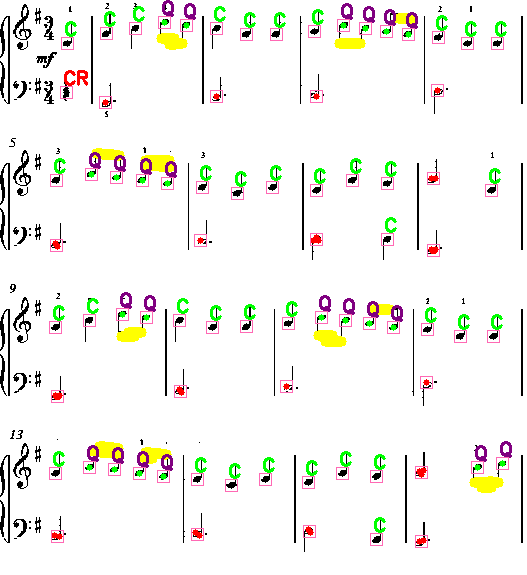
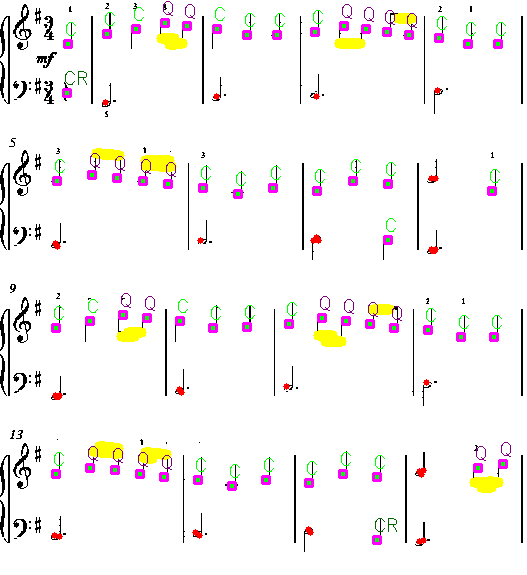
removed the 12x12 pink boxes

diff --git a/musicnote_identification.py b/musicnote_identification.py
@@ -89,50 +89,6 @@ def draw_yellow_line_on_beam(lines_image_path, notehead_image):
     # Return the modified notehead image
     return notehead_image
 
-def draw_bounding_box_on_centernoteheads(notehead_image,output_folder):
-    # Ensure the output folder exists
-    if not os.path.exists(output_folder):
-        os.makedirs(output_folder)
-
-    # Convert the image to HSV color space for better color detection
-    hsv_image = cv2.cvtColor(notehead_image, cv2.COLOR_BGR2HSV)
-
-    # Define color ranges for red and green blobs
-    lower_red = np.array([0, 120, 70])
-    upper_red = np.array([10, 255, 255])
-    lower_green = np.array([35, 50, 50])
-    upper_green = np.array([85, 255, 255])
-
-    # Create masks for red and green blobs
-    red_mask = cv2.inRange(hsv_image, lower_red, upper_red)
-    green_mask = cv2.inRange(hsv_image, lower_green, upper_green)
-
-    # Combine the masks
-    combined_mask = cv2.bitwise_or(red_mask, green_mask)
-
-    # Find contours in the combined mask
-    contours, _ = cv2.findContours(combined_mask, cv2.RETR_EXTERNAL, cv2.CHAIN_APPROX_SIMPLE)
-
-    # Draw bounding boxes around the detected blobs
-    for contour in contours:
-        # Get the bounding box of the contour
-        x, y, w, h = cv2.boundingRect(contour)
-
-        # Calculate the center of the bounding box
-        center_x = x + w // 2
-        center_y = y + h // 2
-
-        # Draw a 12x12 bounding box centered on the notehead
-        cv2.rectangle(notehead_image,
-                      (center_x - 6, center_y - 6),
-                      (center_x + 6, center_y + 6),
-                      (180, 105, 255), 1)  # Pink color box with thinner lines
-
-    # Save the result image with bounding boxes in the output folder
-    output_path = os.path.join(output_folder, 'bounding_boxes.png')
-    cv2.imwrite(output_path, notehead_image)
-    print(f"Image saved with bounding boxes to {output_path}")
-
 def identify_crochets_quavers(modified_image, output_folder):
     hsv_image = cv2.cvtColor(modified_image, cv2.COLOR_BGR2HSV)
 
@@ -151,10 +107,20 @@ def identify_crochets_quavers(modified_image, output_folder):
     yellow_contours, _ = cv2.findContours(yellow_mask, cv2.RETR_EXTERNAL, cv2.CHAIN_APPROX_SIMPLE)
 
     crochets, quavers, crotchet_rests = [], [], []
+    center_coordinates = []  # List to store center coordinates
+
+    # **Create a grayscale copy for black pixel analysis (does not modify original image)**
+    gray_image = cv2.cvtColor(modified_image, cv2.COLOR_BGR2GRAY)
 
     for contour in green_contours:
         x, y, w, h = cv2.boundingRect(contour)
         center_x, center_y = x + w // 2, y + h // 2
+
+        # **Draw bounding box**
+        cv2.rectangle(modified_image, (x, y), (x + w, y + h), (255, 0, 255), 2)  # Blue box
+
+        # Store center coordinates
+        center_coordinates.append((center_x, center_y))
 
         # Check if near yellow beam (quaver)
         is_quaver = any(
@@ -165,35 +131,32 @@ def identify_crochets_quavers(modified_image, output_folder):
         )
 
         if is_quaver:
-            cv2.putText(modified_image, "Q", (x, y - 5), cv2.FONT_HERSHEY_SIMPLEX, 0.6, (128, 0, 128), 2)
+            cv2.putText(modified_image, "Q", (x, y - 5), cv2.FONT_HERSHEY_SIMPLEX, 0.6, (128, 0, 128), 1)
         else:
-            # Convert green pixels to black in the 12x12 region
-            for i in range(y, y + 12):
-                for j in range(x, x + 12):
-                    if 0 <= i < modified_image.shape[0] and 0 <= j < modified_image.shape[1]:
-                        pixel = hsv_image[i, j]
-                        if lower_green[0] <= pixel[0] <= upper_green[0]:  # Check if pixel is green
-                            modified_image[i, j] = [0, 0, 0]  # Convert to black
-
-            # Calculate black pixels within the 12x12 region
-            roi = modified_image[y:y + 12, x:x + 12]
-            gray_roi = cv2.cvtColor(roi, cv2.COLOR_BGR2GRAY)
-            black_pixel_count = np.sum(gray_roi == 0)
+            # Extract 12x12 region from grayscale copy (so green dots remain in the original image)
+            roi = gray_image[y:y + 12, x:x + 12]
+            black_pixel_count = np.sum(roi == 0)
 
             # Classify as crotchet or crotchet rest
-            if black_pixel_count > 50:
-                cv2.putText(modified_image, "CR", (x, y - 5), cv2.FONT_HERSHEY_SIMPLEX, 0.6, (0, 0, 255), 2)
+            if black_pixel_count > 18:
+                cv2.putText(modified_image, "CR", (x, y - 5), cv2.FONT_HERSHEY_SIMPLEX, 0.6, (0, 100, 0), 1)
             else:
-                cv2.putText(modified_image, "C", (x, y - 5), cv2.FONT_HERSHEY_SIMPLEX, 0.6, (0, 255, 0), 2)
+                cv2.putText(modified_image, "C", (x, y - 5), cv2.FONT_HERSHEY_SIMPLEX, 0.6, (0, 255, 0), 1)
 
             print(f"Black pixels in 12x12 box at ({x}, {y}): {black_pixel_count}")
+
+    # Print center coordinates
+    print("Center coordinates of detected noteheads:")
+    for coord in center_coordinates:
+        print(coord)
 
     # Save output
     os.makedirs(output_folder, exist_ok=True)
     output_path = os.path.join(output_folder, 'crochets_quavers_identified.png')
     cv2.imwrite(output_path, modified_image)
 
-    return crochets, quavers, crotchet_rests
+    return crochets, quavers, crotchet_rests, center_coordinates
+
 
 def detect_minims(notehead_image, output_folder):
     # Convert image to HSV for color detection
@@ -242,13 +205,15 @@ def detect_minims(notehead_image, output_folder):
             if is_dm:
                 label = "DM"
                 color = (255, 100, 0)
+                dotted_minims.append((x, y, w, h))
             else:
                 label = "M"
                 color = (255, 200, 150)  # Light blue for M
+                minims.append((x, y, w, h))
 
             # Draw bounding box and label
             cv2.rectangle(notehead_image, (x, y), (x + w, y + h), color, 1)
-            cv2.putText(notehead_image, label, (x, y - 5), cv2.FONT_HERSHEY_SIMPLEX, 0.6, color, 2)
+            cv2.putText(notehead_image, label, (x, y - 5), cv2.FONT_HERSHEY_SIMPLEX, 0.6, color, 1  )
 
             # Draw yellow box for dotted minim detection
             if is_dm:
@@ -262,6 +227,3 @@ def detect_minims(notehead_image, output_folder):
     print(f"Minims detected and saved to {output_path}")
 
     return minims, dotted_minims
-
-
-

diff --git a/main.py b/main.py
@@ -10,10 +10,8 @@ from bar_lines_detection import bar_detect
 from musicnote_identification import (
     draw_yellow_line_on_beam,
     draw_boundingbox,
-    draw_bounding_box_on_centernoteheads,
     identify_crochets_quavers,
     detect_minims,
-    save_detected_notes,
 )
 
 def main():
@@ -55,15 +53,11 @@ def main():
                 # Now draw the yellow beam lines on the notehead image based on lines.png
                 modified_image = draw_yellow_line_on_beam('beam_images/lines.png', processed_image)
 
-            draw_bounding_box_on_centernoteheads(modified_image,note_classification_output_folder)
-
             # Identify crochets (green dots) and quavers (green dots with yellow beam lines)
             print("Identifying crochets and quavers...")
-            crochets, quavers, crotchet_rests = identify_crochets_quavers(modified_image, note_classification_output_folder)
+            crochets, quavers, crotchet_rests, center_coordinates = identify_crochets_quavers(modified_image,
+                                                                                              note_classification_output_folder)
             minims, dotted_minims = detect_minims(modified_image, note_classification_output_folder)
-            # Save detected notes to a text file
-            save_detected_notes(note_classification_output_folder, crochets, quavers, crotchet_rests, minims,
-                                dotted_minims,staff_line_rows)
 
 
 if __name__ == "__main__":
